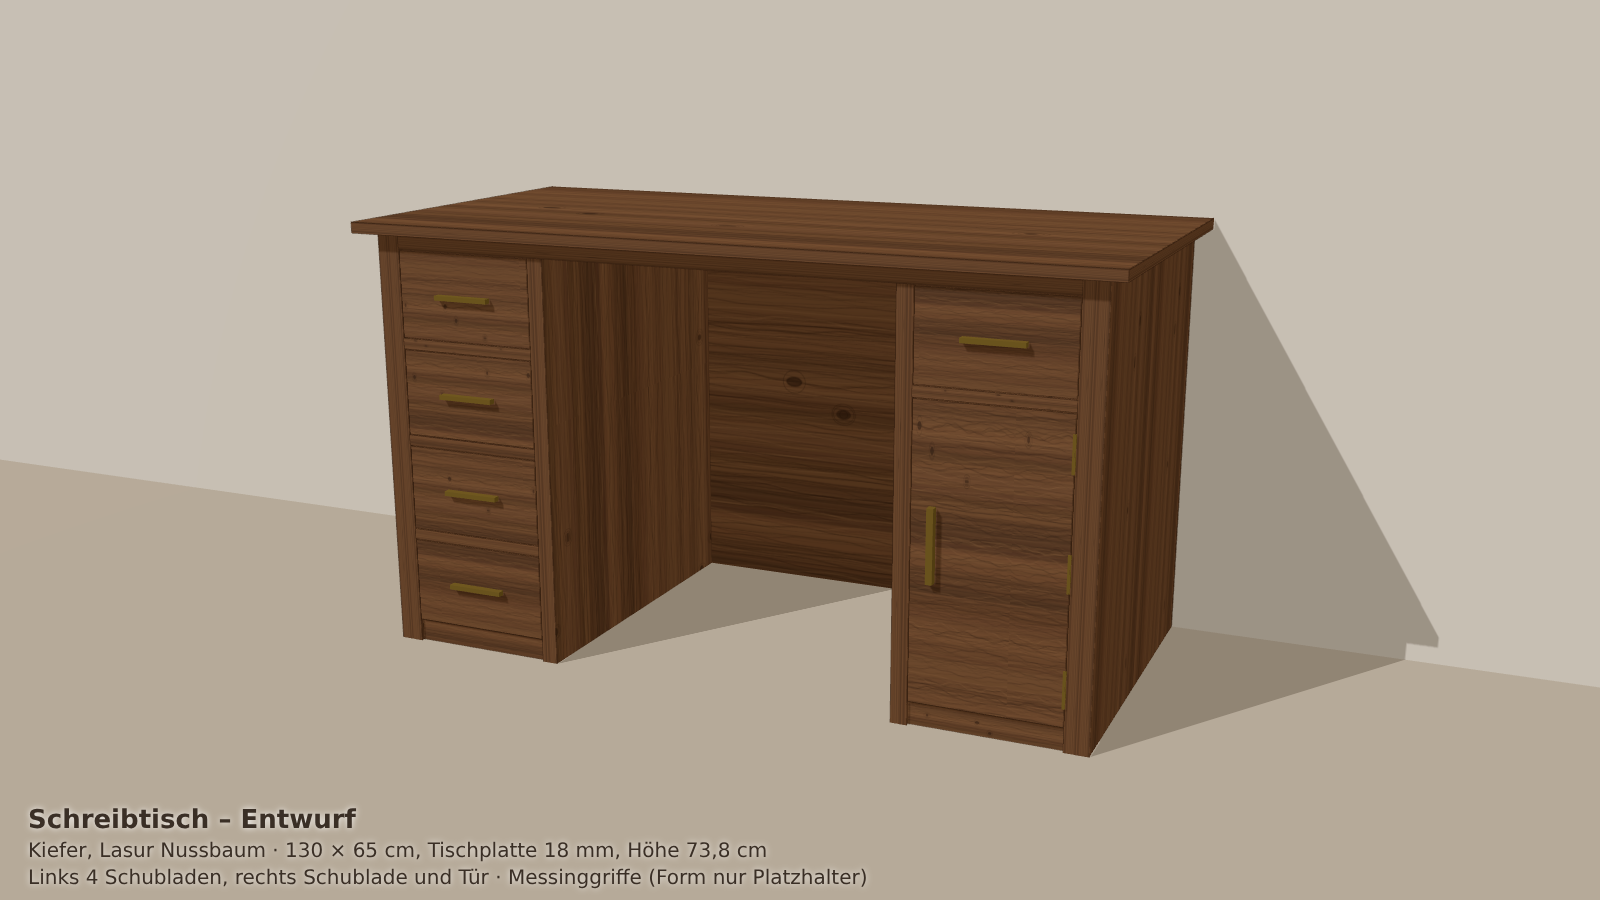
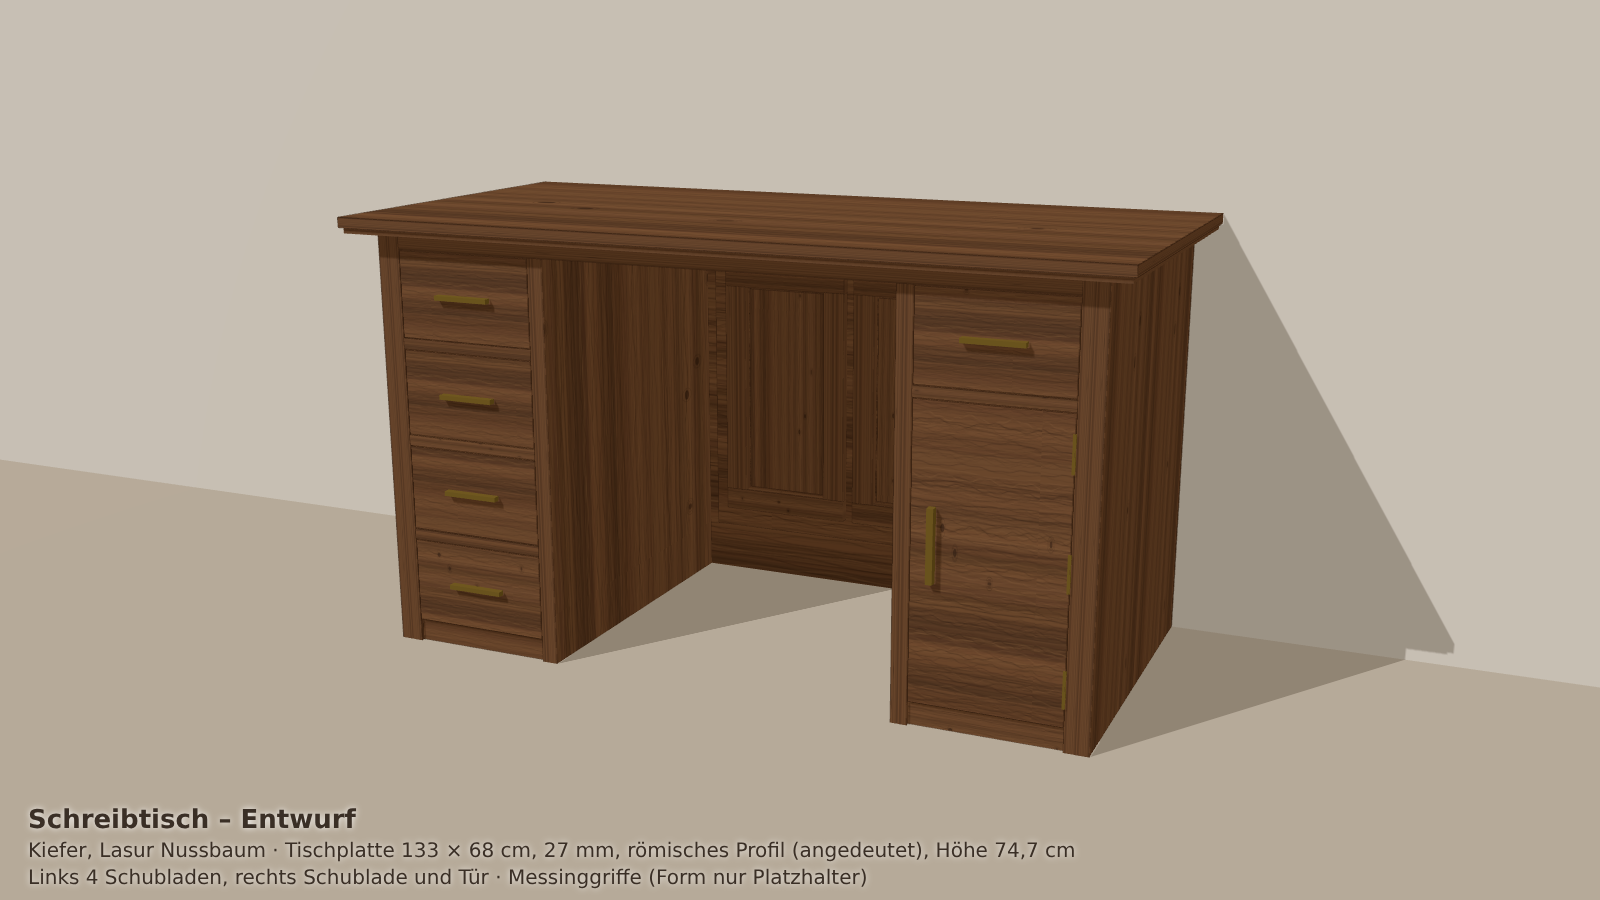
Schreibtisch: Tischplatte 1330x680x27 mit Profil, Kassetten-Verzierung Rückwand, Skizze/Renderings/Plan
Claude-Session: https://claude.ai/code/session_01XaGsoAajkMh8CfcQtnFFv4

diff --git a/schreibtisch/plan.md b/schreibtisch/plan.md
@@ -4,7 +4,7 @@ Bilder im selben Ordner: `skizze.png` (Ansichten), `duebelplan.png` (Dübel), `r
 
 ## 1. Aufbau
 
-- Gestell: zwei Seitenplatten (40 mm), dazwischen oben die Verbindungsplatte (27 mm), darauf die Tischplatte (18 mm, 1300 × 650).
+- Gestell: zwei Seitenplatten (40 mm), dazwischen oben die Verbindungsplatte (27 mm), darauf die Tischplatte (27 mm, 1330 × 680, mit umlaufendem römischem Profil, wird fertig geliefert).
 - Links ein Schubladenblock mit **4 Schubladen**, getrennt durch **3 Fachböden (18 mm)**. Unten kein Brett, nur eine **Zierleiste** vor dem Fuß.
 - Rechts oben **1 Schublade**, darunter ein **Fachboden** und eine **große Tür** (Scharniere rechts, Griff links, Magnetschnäpper). Unten ein **Bodenbrett** hinter der Zierleiste, symmetrisch zu links: Zierleiste auf beiden Seiten gleich, die Tür beginnt wie die linken Fronten bei 41 mm.
 - Zwischen den Blöcken zwei senkrechte Trennplatten (27 mm), dazwischen der Kniefreiraum.
@@ -13,9 +13,9 @@ Bilder im selben Ordner: `skizze.png` (Ansichten), `duebelplan.png` (Dübel), `r
 | | Wert |
 |---|---|
 | Gestell außen (B × T × H) | 1240 × 590 × 720 |
-| Tischplatte | 1300 × 650 × 18 |
-| Gesamthöhe | 738 |
-| Überstand Tischplatte | 30 vorn, 30 je Seite, hinten 22 über der Rückwand |
+| Tischplatte | 1330 × 680 × 27 (römisches Profil, geliefert) |
+| Gesamthöhe | 747 |
+| Überstand Tischplatte | 45 vorn, 45 je Seite, hinten 37 über der Rückwand |
 | Öffnung je Block (Breite) | 250 |
 | Kniefreiraum | ca. 606 |
 
@@ -46,7 +46,7 @@ Rechts: Fach 4 = Schublade (wie links), 525–543 Fachboden, 39–525 Türfach (
 | Bodenbrett rechts | 1 | 566 × ca. 249 (hinter der Zierleiste) | 18 | Leimholz Kiefer |
 | Tür | 1 | 482 × 247 | 18 | Leimholz Kiefer |
 | Zierleiste | 2 | 250 × 37 | 18 | Leimholz Kiefer (Reste) |
-| Tischplatte | 1 | 1300 × 650 | 18 | Leimholz Kiefer |
+| Tischplatte | 1 | 1330 × 680 (geliefert, mit römischem Profil) | 27 | Leimholz Kiefer |
 | Rückwand | 1 | 1240 × 720 | 8 | Sperrholz |
 
 Linke Trennplatte: 290 mm von der linken Außenkante bis zu ihrer linken Fläche (Öffnung genau 250 mm), die Platte reicht bis 317 mm. Rechte Trennplatte spiegelbildlich.
@@ -63,6 +63,23 @@ Annahme: Kugelauszüge 500 mm mit ca. 12,7 mm Platz je Seite (Datenblatt prüfen
 | Seiten | 2 | 500 × 130 | 18 | Leimholz Kiefer |
 | Rückstück | 1 | 188 × 130 | 18 | Leimholz Kiefer |
 | Boden | 1 | 224 × 500 | 6 | Sperrholz |
+
+## 4a. Verzierung auf der Rückwand (Innenseite im Beinraum)
+
+Zwei „Fenster“ im Kassetten-Stil, wie fünf aufgeklebte Platten (Detail 6 in `skizze.png`):
+
+| Teil | Anz. | Maß | Material |
+|---|---|---|---|
+| Grundplatte | 1 | 566 × 560 × 6 | Sperrholz (wie Schubladenböden) |
+| Rahmenleisten lang | 4 | 480 × 40 × 18 | Leimholz Kiefer |
+| Rahmenleisten kurz | 4 | 163 × 40 × 18 | Leimholz Kiefer |
+| Füllung | 2 | 153 × 390 × 6 | Sperrholz |
+
+- Grundplatte mittig im Beinraum, 20 mm Abstand zu den inneren Platten, Unterkante 90 mm über dem Boden.
+- Rahmen je 243 × 480 (Leisten stumpf verleimt), 30 mm vom Rand der Grundplatte, 20 mm Abstand zwischen den Rahmen, 40 mm Rand oben/unten.
+- Füllungen in den Rahmenöffnungen mit 5 mm Luft rundum, sie liegen 12 mm tiefer als der Rahmen.
+- Befestigung: Leim + Schrauben 3 × 25 von hinten durch die Rückwand (unsichtbar). Vorher lasieren, Klebeflächen abkleben, vor dem Anbringen der Rückwand montieren.
+- Leisten aus 1 Brett 2000 × 200 × 18: 4 Streifen à 40 mm längs schneiden lassen, dann auf 480 und 163 kürzen.
 
 ## 5. Dübelplan
 
@@ -98,7 +115,6 @@ Annahme: 27- und 40-mm-Bretter gibt es in denselben Formaten wie 18 mm (Längen 
 | 40 mm | 2 × 800×400, 2 × 800×200 | alle auf 720 kürzen; 200er-Teile auf 190 Breite besäumen | 2 Seitenplatten |
 | 27 mm | 1 × 2000×400, 1 × 2000×200 | je bei 1160 und 693 quer schneiden; 200er-Teile auf 190 besäumen | Verbindungsplatte, linke Trennplatte |
 | 27 mm | 1 × 800×400, 1 × 800×200 | auf 693 kürzen; 200er auf 190 besäumen | rechte Trennplatte |
-| 18 mm Tischplatte | 1 × 2000×400, 1 × 2000×250 | je auf 1300 kürzen | Tischplatte 1300 × 650 (400 + 250) |
 | 18 mm Bretter | 5 × 800×250 | 4 × auf 590, 1 × auf 566 kürzen | 4 Fachböden, Bodenbrett |
 | 18 mm Tür und Zierleisten | 1 × 800×250 | auf 482 kürzen, auf 247 besäumen; Rest 318 × 250: 2 Streifen 37 breit, je 250 lang | Tür, 2 Zierleisten |
 | 18 mm Schubladen | 2 × 2000×300, 1 × 2000×200 | 300er A: Streifen 130 + 146 (146: 5 Fronten à 247); 130er-Streifen je 3 Seiten + 2 Rückstücke; 300er B: 2 Streifen 130; 200er: 1 Streifen 130 | 10 Seiten, 5 Rückstücke, 5 Fronten |
@@ -117,12 +133,13 @@ Preise von dir: Dübelset 30 €, Messinggriffe 7 € das Stück, 4 Paar Kugelau
 | 1 weiteres Paar Auszüge | ca. 8 € | Schätzung (gleicher Preis) |
 | 3 Scharniere + Magnetschnäpper | 10–25 € | Schätzung |
 | 27-mm-Holz: Verbindungsplatte + 2 Trennplatten (1,68 m² × 84 €/m²) | ca. 141 € | Beleg |
-| 18-mm-Bretter inkl. Tischplatte (4,1 m²) | ca. 103 € | nur 2000×200 belegt, Rest nach Fläche (25 €/m²) |
+| Tischplatte 1330 × 680 × 27 mit Profil (Lieferant) | Preis fehlt | |
+| 18-mm-Bretter (2,8 m²) + 1 × 2000×200 für die Kassettenrahmen | ca. 80 € | nur 2000×200 belegt, Rest nach Fläche (25 €/m²) |
 | Lasur Nussbaum (2,0–2,8 l) | 57–80 € | Beleg + Annahme Deckvermögen |
 | Sperrholz 8 mm (Rückwand) und 6 mm (Böden) | 28–55 € | Schätzung |
 | Klarlack | 10–25 € | Schätzung |
 | Zubehör (Spanngurte, Leim, 6×30-Dübel, Schleifpapier, Z-Verbinder, Pinsel) | 45–73 € | Schätzung |
-| **Zwischensumme ohne 40-mm-Holz** | **ca. 505–615 €** | |
+| **Zwischensumme ohne Tischplatte und 40-mm-Holz** | **ca. 490–600 €** | |
 | 40-mm-Holz (0,96 m², Preis fehlt; bei 120 €/m² ca. 115 €) | offen | Annahme |
 
 Option innere Trennplatten 40 statt 27 mm: ca. 75 € mehr (bei 120 €/m² für 40 mm, Annahme), Kniefreiraum 580 statt 606 mm. Vergleichsbild: `vergleich_trennplatten_27_40.png`.
@@ -130,6 +147,9 @@ Option innere Trennplatten 40 statt 27 mm: ca. 75 € mehr (bei 120 €/m² für
 ## 9. Offene Punkte
 
 - Innere Platten (Verbindungsplatte, senkrechte Trennplatten): 27 mm – entschieden.
+- Tischplatte: Lieferant und Preis (27 oder 28 mm; bei 28 mm wird die Höhe 748).
+- Zierleiste: Form noch offen (sitzt zwischen den Platten, höchstens 39 mm hoch).
+- Verzierung: Lage und Maße bestätigen.
 - Preis 40-mm-Holz, Sperrholz, Klarlack.
 - Griff- und Scharniermodell (Aufschlag- oder Topfscharniere?).
 - Plattenformate und Anzahl kostenloser Schnitte beim Bauhaus.
